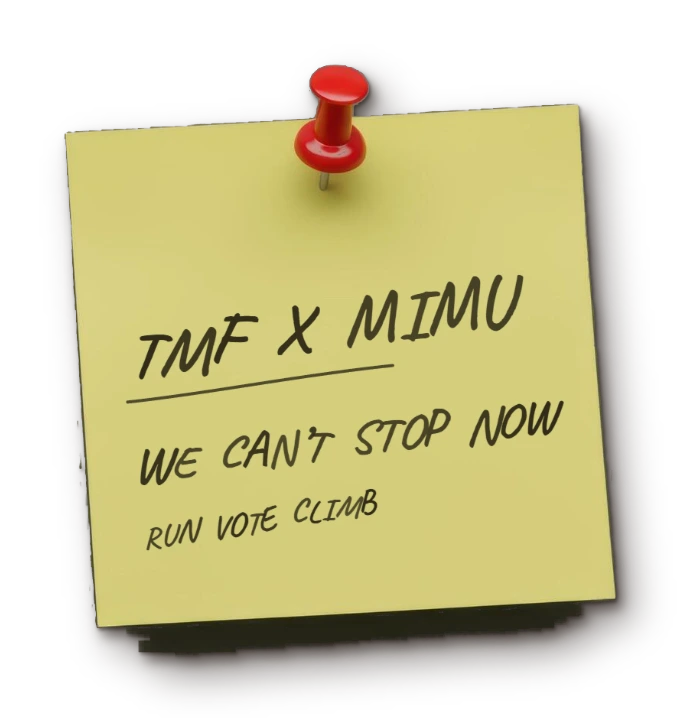
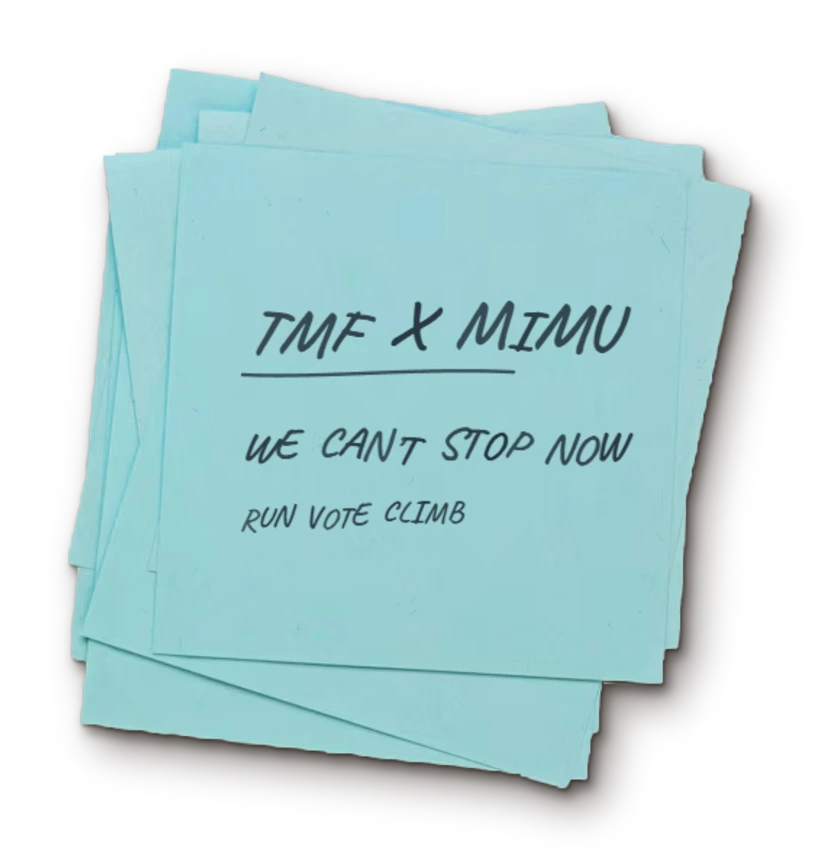
Replace the post-it with the blue sticky-note stack

diff --git a/index.html b/index.html
@@ -68,7 +68,7 @@ input{font:inherit;color:inherit;-webkit-user-select:text;user-select:text}
 .p-bell.ring img{animation:bellRing 1.6s ease-out both}
 @keyframes bellWig{0%,100%{transform:none}30%{transform:translateY(-4px) scale(1.015,1.03) rotate(-1.2deg)}60%{transform:translateY(0) scale(1.01,.99) rotate(1.2deg)}}
 @keyframes bellRing{0%{transform:none}10%{transform:translateY(7px) scale(1.04,.82)}22%{transform:translateY(-6px) scale(.98,1.06)}36%{transform:translateY(2px) scale(1.02,.96)}52%{transform:translateY(-2px) scale(.995,1.015)}70%{transform:none}100%{transform:none}}
-.p-sticky{right:6%;top:41%;width:262px}
+.p-sticky{right:5.2%;top:38.5%;width:325px}
 .p-mug{right:11%;top:3%;width:410px}
 .p-mug .steam{position:absolute;left:43%;top:36%;width:14%;height:22%;pointer-events:none}
 .p-mug .steam i{position:absolute;left:30%;bottom:0;width:34px;height:70px;border-radius:50%;background:radial-gradient(rgba(255,255,255,.3),transparent 70%);filter:blur(9px);opacity:0;animation:steam 6s infinite}
@@ -528,7 +528,7 @@ body.enter .footbar{animation-name:chromeInB}
 <div id="desk">
   <!-- props: real photos, cut out, graded and shadowed to match the desk lamp -->
   <div class="prop p-paper"><img src="assets/notebook.webp?v=3" alt=""></div>
-  <div class="prop p-sticky"><img src="assets/postit.webp?v=3" alt=""></div>
+  <div class="prop p-sticky"><img src="assets/postit.webp?v=4" alt=""></div>
   <div class="prop p-bell"><img src="assets/easy.webp?v=1" alt=""><div class="bell-hit"></div></div>
   <div class="prop p-mug"><img src="assets/latte.webp" alt=""><div class="steam"><i></i><i></i><i></i></div><div class="liq-hit"></div><canvas class="liq-cv"></canvas></div>
   <div class="prop p-penshell"><img class="pen-shadow" src="assets/pen-shadow.webp?v=3" alt=""><div class="p-pen"><img src="assets/pen.webp?v=3" alt=""></div><div class="pen-hit"></div></div>
